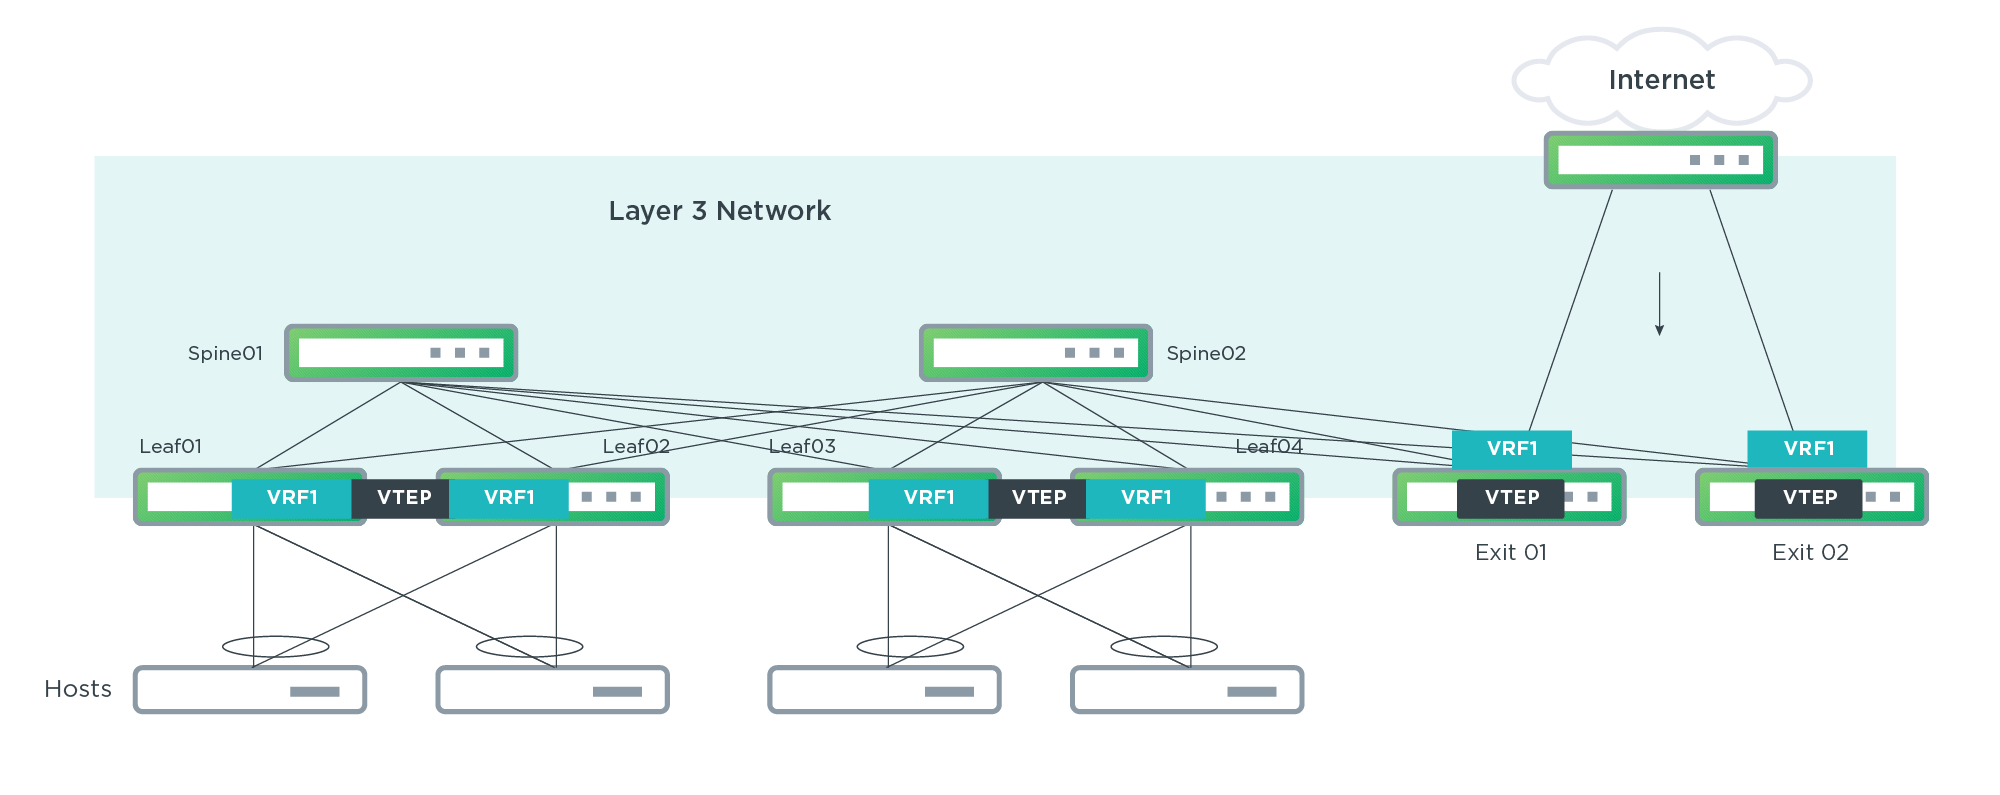
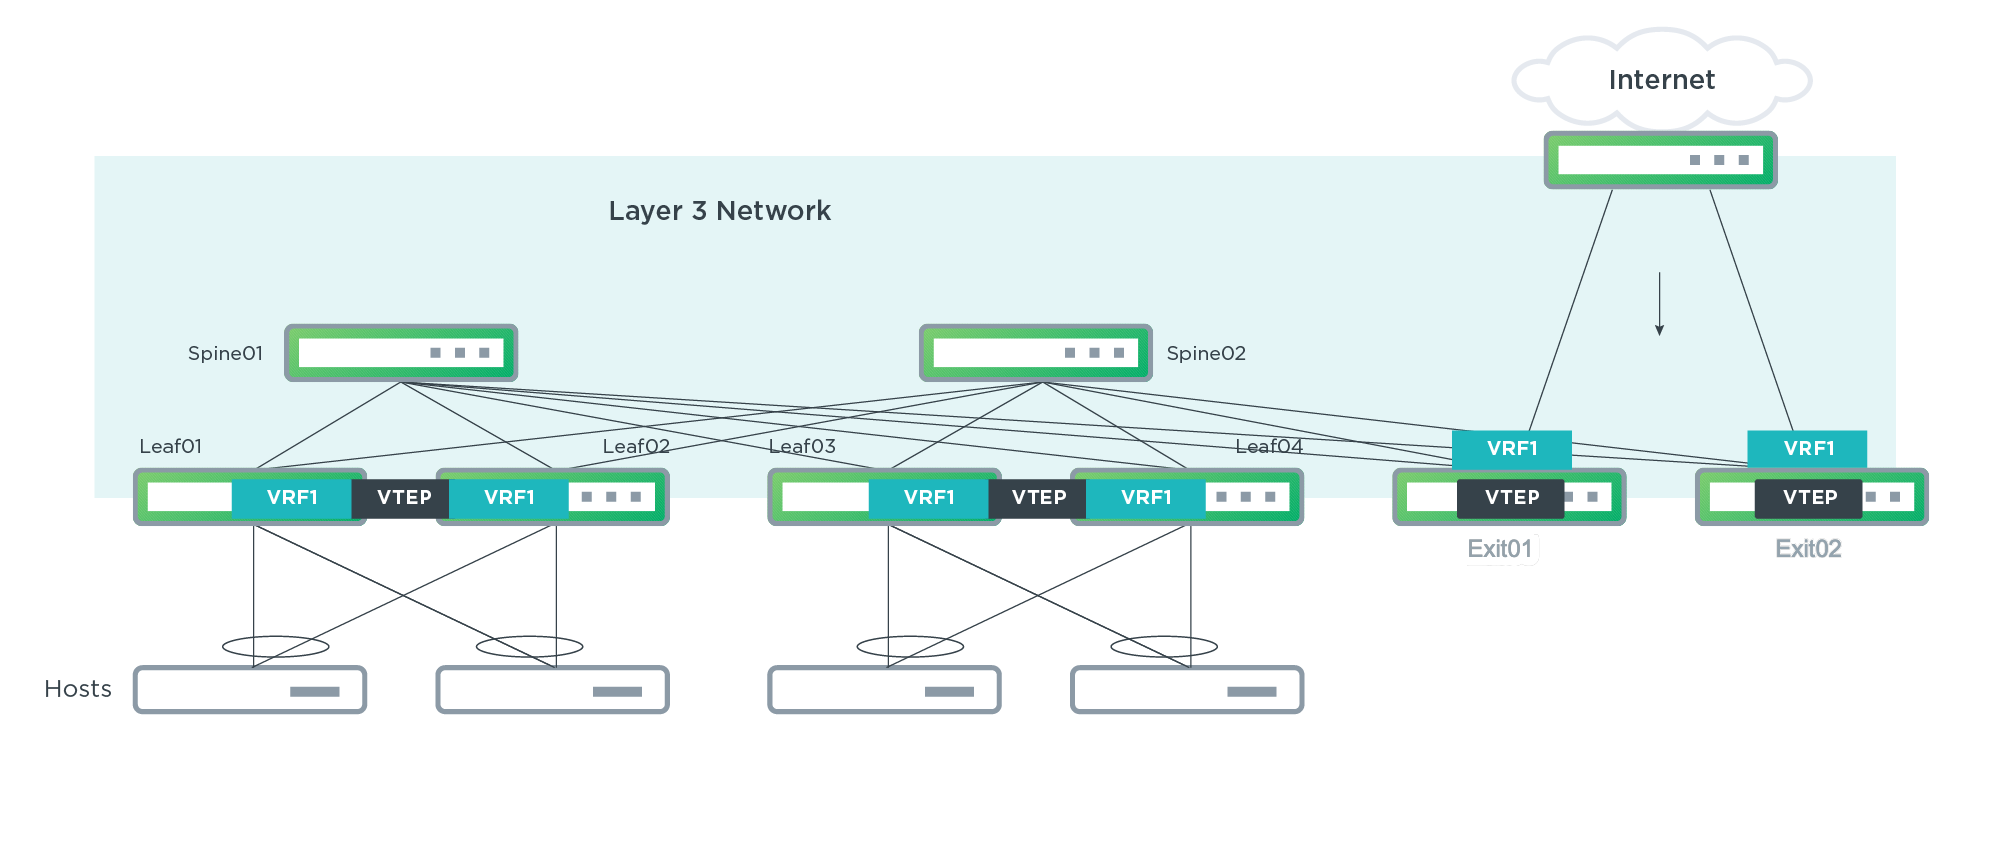
changed border to exit

diff --git a/content/cumulus-linux-40/Network-Virtualization/Ethernet-Virtual-Private-Network-EVPN/Configuration-Examples.md b/content/cumulus-linux-40/Network-Virtualization/Ethernet-Virtual-Private-Network-EVPN/Configuration-Examples.md
@@ -3533,10 +3533,10 @@ iface swp6
 
 {{< /tab >}}
 
-{{< tab "border-leaf01" >}}
+{{< tab "exit01" >}}
 
 ```
-cumulus@border-leaf01:~$ cat /etc/network/interfaces
+cumulus@exit01:~$ cat /etc/network/interfaces
 
 # This file describes the network interfaces available on your system
 # and how to activate them. For more information, see interfaces(5).
@@ -3689,10 +3689,10 @@ iface vni16002
 
 {{< /tab >}}
 
-{{< tab "border-leaf02" >}}
+{{< tab "exit02" >}}
 
 ```
-cumulus@border-leaf02:~$ cat /etc/network/interfaces
+cumulus@exit02:~$ cat /etc/network/interfaces
 
 # This file describes the network interfaces available on your system
 # and how to activate them. For more information, see interfaces(5).
@@ -4218,10 +4218,10 @@ line vty
 
 {{< /tab >}}
 
-{{< tab "border-leaf01" >}}
+{{< tab "exit01" >}}
 
 ```
-cumulus@border-leaf01:~$ cat /etc/frr/frr.conf
+cumulus@exit01:~$ cat /etc/frr/frr.conf
 
 log file /var/log/frr/frr.log
 log timestamp precision 6
@@ -4292,10 +4292,10 @@ line vty
 
 {{< /tab >}}
 
-{{< tab "border-leaf02" >}}
+{{< tab "exit02" >}}
 
 ```
-cumulus@border-leaf02:~$ cat /etc/frr/frr.conf
+cumulus@exit02:~$ cat /etc/frr/frr.conf
 
 log file /var/log/frr/frr.log
 log timestamp precision 6

diff --git a/content/cumulus-linux-41/Network-Virtualization/Ethernet-Virtual-Private-Network-EVPN/Configuration-Examples.md b/content/cumulus-linux-41/Network-Virtualization/Ethernet-Virtual-Private-Network-EVPN/Configuration-Examples.md
@@ -3530,10 +3530,10 @@ iface swp6
 
 {{< /tab >}}
 
-{{< tab "border01 ">}}
+{{< tab "exit01 ">}}
 
 ```
-cumulus@border-leaf01:~$ cat /etc/network/interfaces
+cumulus@exit01:~$ cat /etc/network/interfaces
 
 # This file describes the network interfaces available on your system
 # and how to activate them. For more information, see interfaces(5).
@@ -3686,10 +3686,10 @@ iface vni16002
 
 {{< /tab >}}
 
-{{< tab "border02 ">}}
+{{< tab "exit02 ">}}
 
 ```
-cumulus@border-leaf02:~$ cat /etc/network/interfaces
+cumulus@exit02:~$ cat /etc/network/interfaces
 
 # This file describes the network interfaces available on your system
 # and how to activate them. For more information, see interfaces(5).
@@ -4216,10 +4216,10 @@ line vty
 
 {{< /tab >}}
 
-{{< tab "border01 ">}}
+{{< tab "exit01 ">}}
 
 ```
-cumulus@border-leaf01:~$ cat /etc/frr/frr.conf
+cumulus@exit01:~$ cat /etc/frr/frr.conf
 
 log file /var/log/frr/frr.log
 log timestamp precision 6
@@ -4290,10 +4290,10 @@ line vty
 
 {{< /tab >}}
 
-{{< tab "border02 ">}}
+{{< tab "exit02 ">}}
 
 ```
-cumulus@border-leaf02:~$ cat /etc/frr/frr.conf
+cumulus@exit02:~$ cat /etc/frr/frr.conf
 
 log file /var/log/frr/frr.log
 log timestamp precision 6

diff --git a/content/cumulus-linux-42/Network-Virtualization/Ethernet-Virtual-Private-Network-EVPN/Configuration-Examples.md b/content/cumulus-linux-42/Network-Virtualization/Ethernet-Virtual-Private-Network-EVPN/Configuration-Examples.md
@@ -3530,10 +3530,10 @@ iface swp6
 
 {{< /tab >}}
 
-{{< tab "border01 ">}}
+{{< tab "exit01 ">}}
 
 ```
-cumulus@border-leaf01:~$ cat /etc/network/interfaces
+cumulus@exit01:~$ cat /etc/network/interfaces
 
 # This file describes the network interfaces available on your system
 # and how to activate them. For more information, see interfaces(5).
@@ -3686,10 +3686,10 @@ iface vni16002
 
 {{< /tab >}}
 
-{{< tab "border02 ">}}
+{{< tab "exit02 ">}}
 
 ```
-cumulus@border-leaf02:~$ cat /etc/network/interfaces
+cumulus@exit02:~$ cat /etc/network/interfaces
 
 # This file describes the network interfaces available on your system
 # and how to activate them. For more information, see interfaces(5).
@@ -4216,10 +4216,10 @@ line vty
 
 {{< /tab >}}
 
-{{< tab "border01 ">}}
+{{< tab "exit01 ">}}
 
 ```
-cumulus@border-leaf01:~$ cat /etc/frr/frr.conf
+cumulus@exit01:~$ cat /etc/frr/frr.conf
 
 log file /var/log/frr/frr.log
 log timestamp precision 6
@@ -4290,10 +4290,10 @@ line vty
 
 {{< /tab >}}
 
-{{< tab "border02 ">}}
+{{< tab "exit02 ">}}
 
 ```
-cumulus@border-leaf02:~$ cat /etc/frr/frr.conf
+cumulus@exit02:~$ cat /etc/frr/frr.conf
 
 log file /var/log/frr/frr.log
 log timestamp precision 6

diff --git a/content/cumulus-linux-37/Network-Virtualization/Ethernet-Virtual-Private-Network-EVPN.md b/content/cumulus-linux-37/Network-Virtualization/Ethernet-Virtual-Private-Network-EVPN.md
@@ -6608,11 +6608,11 @@ line vty
 
 </details>
 
-### Exit 01 and Exit 02 Configurations
+### Exit01 and Exit02 Configurations
 
 <details>
 
-<summary>Exit 01 /etc/network/interfaces </summary>
+<summary>Exit01 /etc/network/interfaces </summary>
 
 ```
 cumulus@Exit01:~$ cat /etc/network/interfaces
@@ -6822,7 +6822,7 @@ iface vlan30
 
 <details>
 
-<summary>Exit 02 /etc/network/interfaces </summary>
+<summary>Exit02 /etc/network/interfaces </summary>
 
 ```
 cumulus@Exit02:~$ cat /etc/network/interfaces
@@ -7028,7 +7028,7 @@ iface vlan30
 
 <details>
 
-<summary>Exit 01 /etc/frr/frr.conf </summary>
+<summary>Exit01 /etc/frr/frr.conf </summary>
 
 ```
 cumulus@Exit01:~$ cat /etc/frr/frr.conf
@@ -7092,7 +7092,7 @@ line vty
 
 <details>
 
-<summary>Exit 02 /etc/frr/frr.conf </summary>
+<summary>Exit02 /etc/frr/frr.conf </summary>
 
 ```
 cumulus@Exit02:~$ cat /etc/frr/frr.conf
